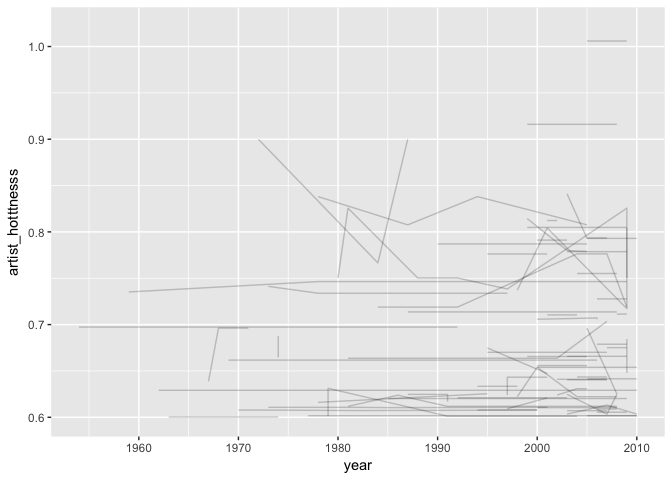
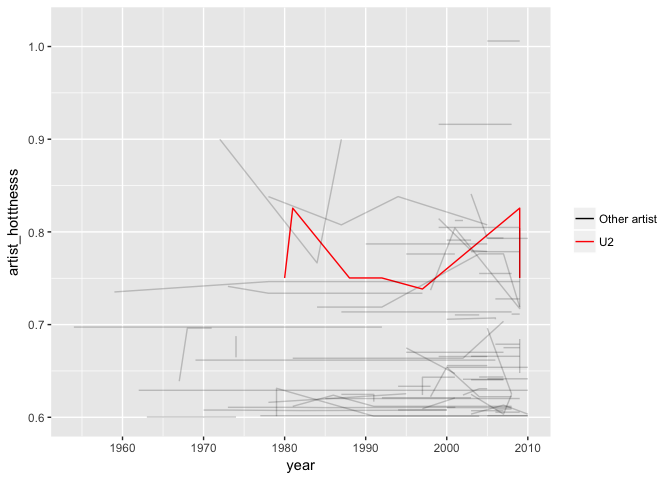
clean

diff --git a/hw05/hw05.md b/hw05/hw05.md
@@ -256,13 +256,6 @@ sl_drop%>%
 
 ![](hw05_files/figure-markdown_github-ascii_identifiers/unnamed-chunk-12-1.png)
 
-``` r
-#p1<-sl_drop %>% 
-  #filter(year > 2000) %>%
-  #filter(artist_hotttnesss>0.9)%>%
-  #ggplot(aes(x=year))+geom_bar(aes(weight=artist_hotttnesss, fill=artist_name_1),position="dodge",colour="black")+scale_y_continuous("hotttnesss")
-```
-
 We only care about the aristist whose hotttnesss is beyond 0.6 and draw a spaghetti plot.
 
 ``` r
@@ -271,7 +264,7 @@ sl3<-sl_drop %>%
 ggplot(sl3,aes(x=year,y=artist_hotttnesss))+geom_line(aes(group=artist_name_1),alpha=0.2)
 ```
 
-![](hw05_files/figure-markdown_github-ascii_identifiers/unnamed-chunk-14-1.png)
+![](hw05_files/figure-markdown_github-ascii_identifiers/unnamed-chunk-13-1.png)
 
 Now, I pick one artist called "U2" and try to highlight her hotttnesss changes over time by red line.
 
@@ -282,7 +275,7 @@ p<-ggplot(sl3,aes(x=year,y=artist_hotttnesss))+geom_line(aes(group=artist_name_1
 p
 ```
 
-![](hw05_files/figure-markdown_github-ascii_identifiers/unnamed-chunk-15-1.png)
+![](hw05_files/figure-markdown_github-ascii_identifiers/unnamed-chunk-14-1.png)
 
 Writing figures to file
 -----------------------
@@ -293,3 +286,5 @@ Writing figures to file
 ggsave("my plot.pdf", width=15, height=10, units="cm", plot=p)
 ggsave("my plot.png", width=15, height=10, units="cm", plot=p)
 ```
+
+![plot](my%20plot.png)
